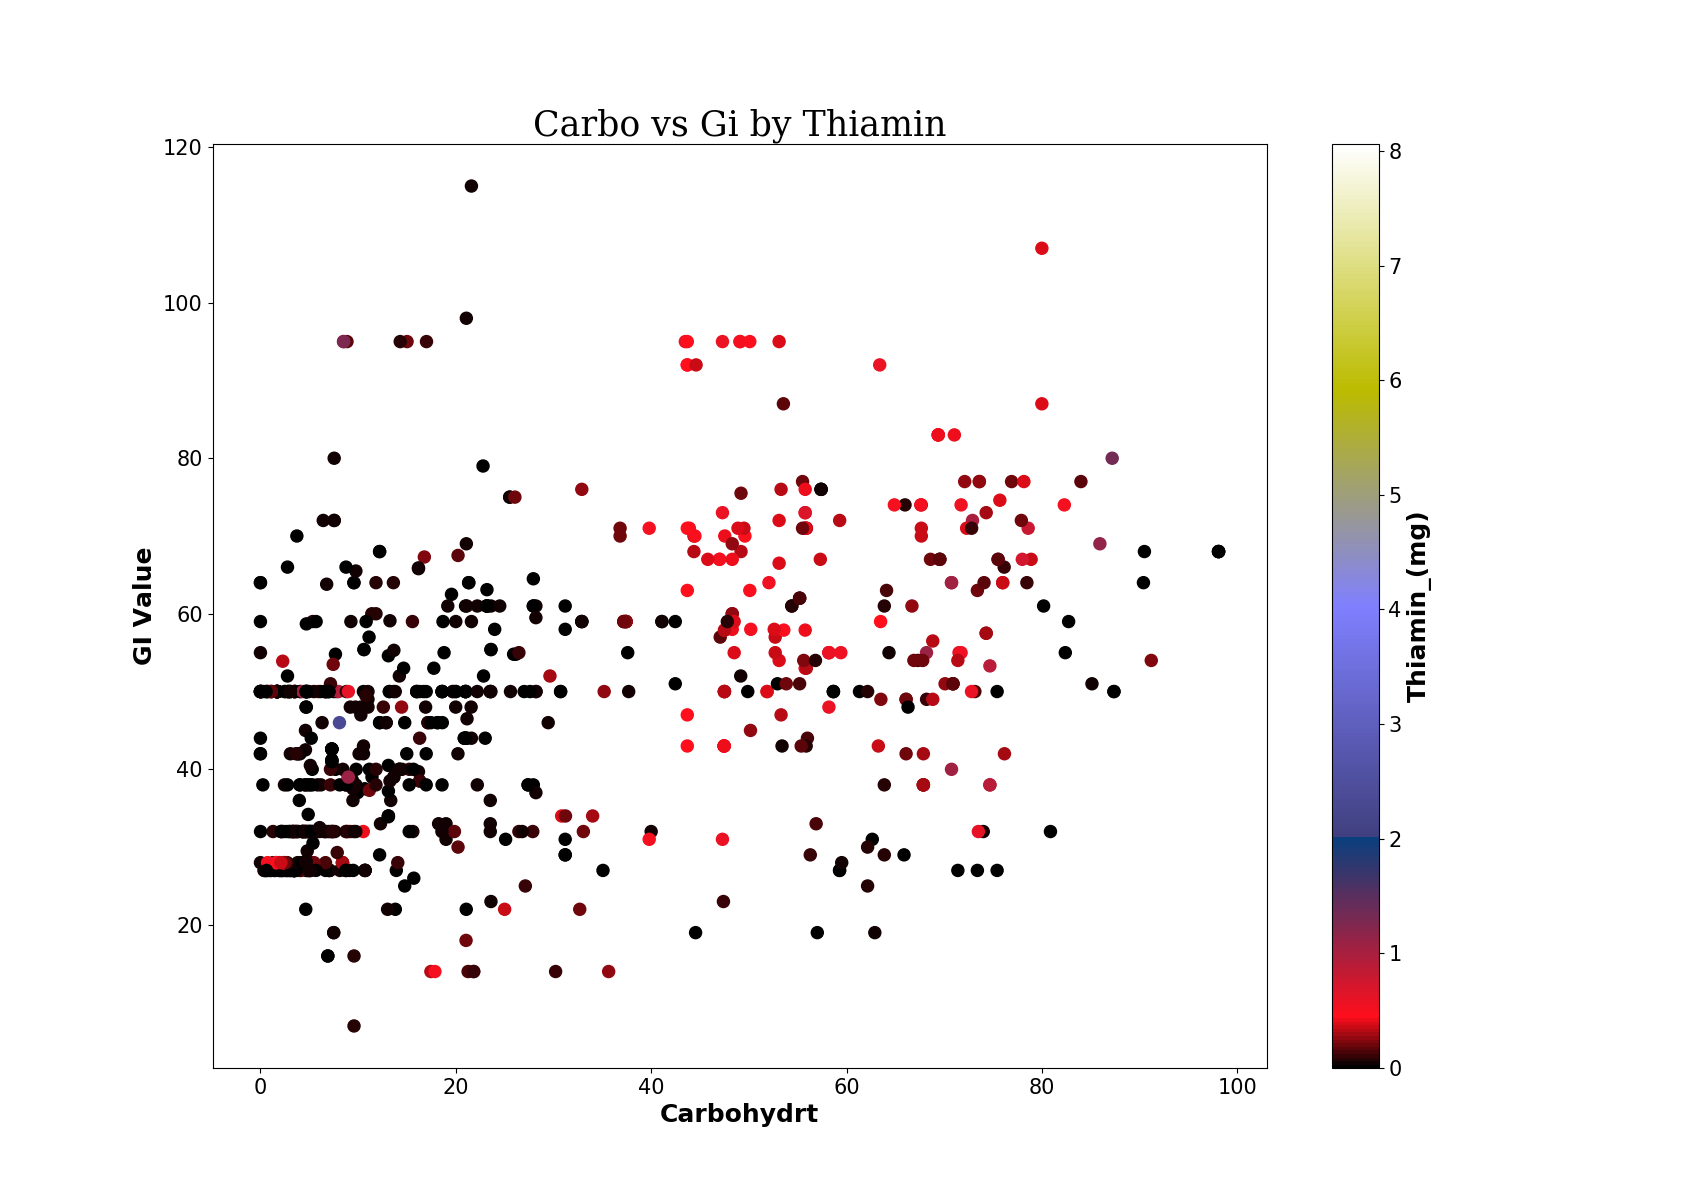
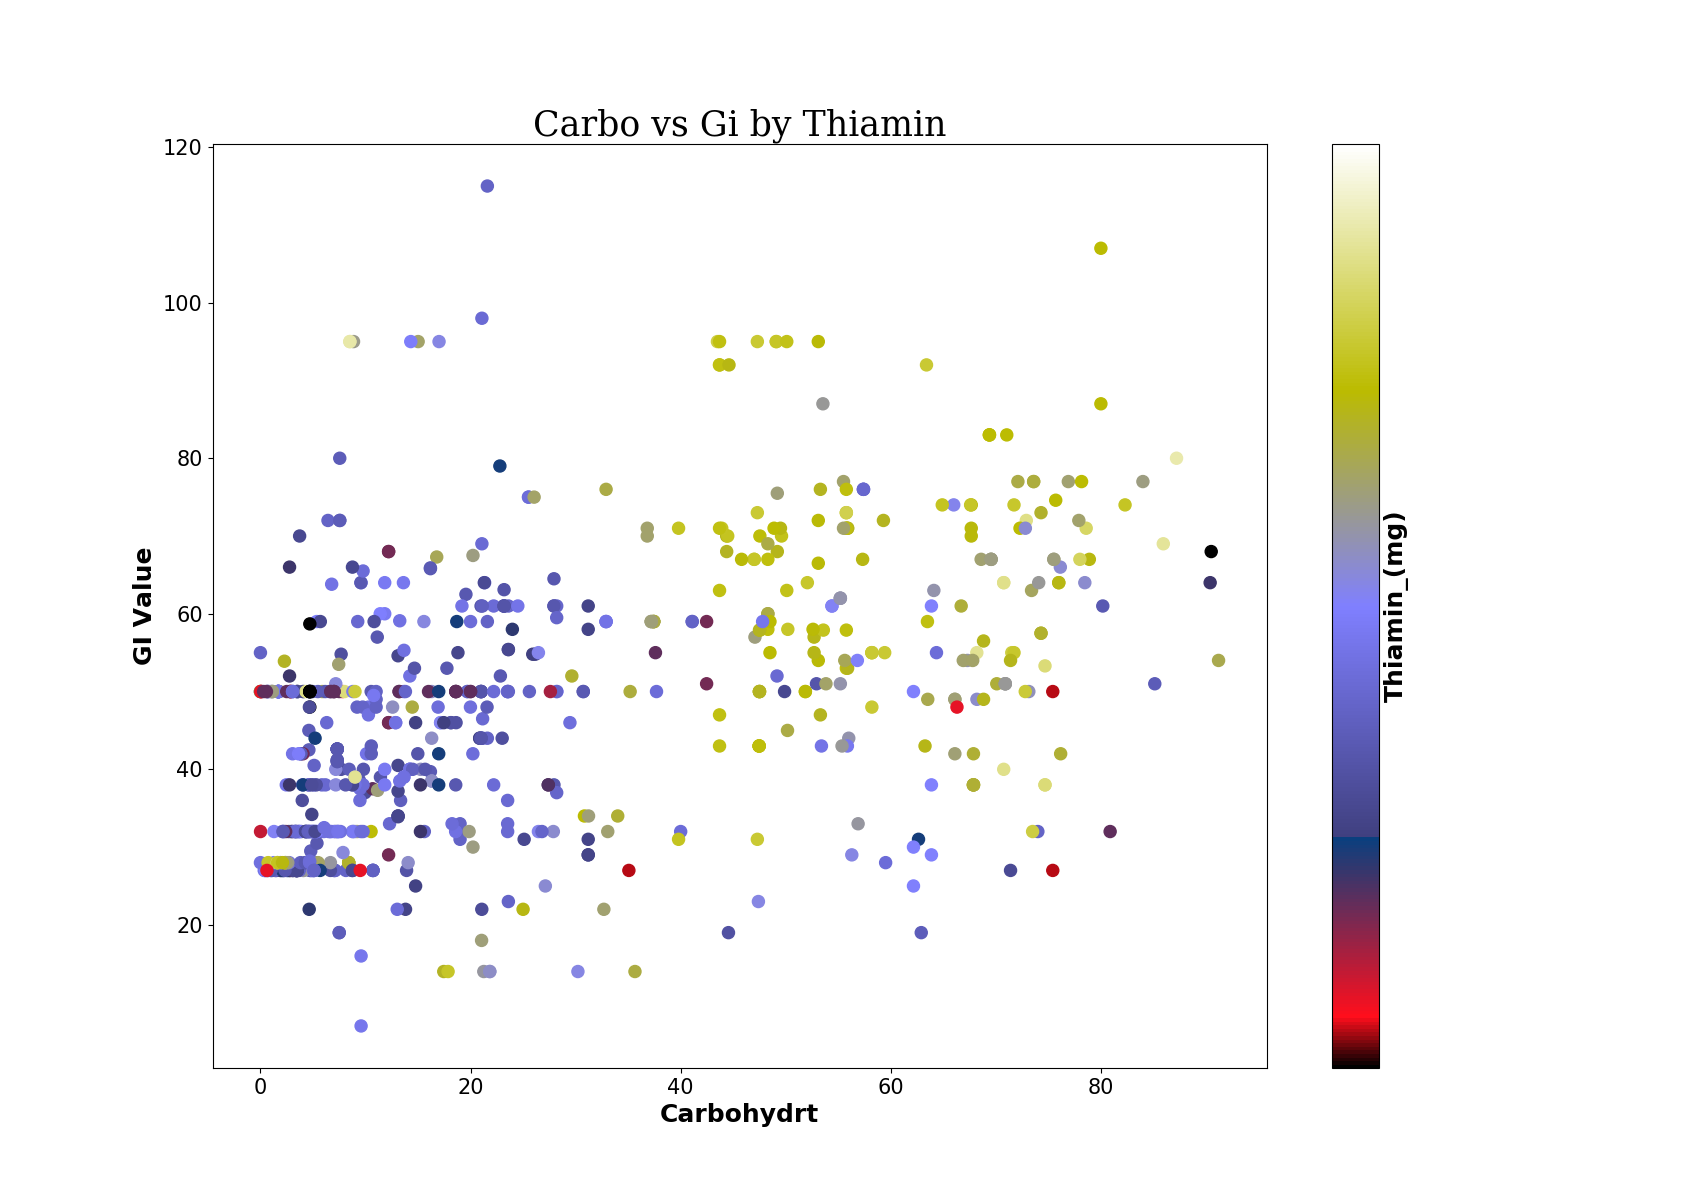
change plot output

diff --git a/Machine_Learning/ml_code.py b/Machine_Learning/ml_code.py
@@ -168,10 +168,12 @@ def learn(ml_df, X_train, X_test, y_train, y_test, RF_X_train, RF_X_test, pic_na
     ##########################################################
 
     # X_train, X_test, y_train, y_test = get_train_and_test(ml_df)
-    # X_train = X_train.drop(['Food Description in 1994-96 CSFII'], axis='columns')
-    # X_test = X_test.drop(['Food Description in 1994-96 CSFII'], axis='columns')
-    # X_train = X_train.drop(['FdGrp_desc'], axis='columns')
-    # X_test = X_test.drop(['FdGrp_desc'], axis='columns')
+    X_train = X_train.drop(['Food Description in 1994-96 CSFII'], axis='columns')
+    X_test = X_test.drop(['Food Description in 1994-96 CSFII'], axis='columns')
+    X_train = X_train.drop(['FdGrp_desc'], axis='columns')
+    X_test = X_test.drop(['FdGrp_desc'], axis='columns')
+    RF_X_train = X_train
+    RF_X_test = X_test
 
 
     features = list(ml_df.columns.values)
@@ -199,8 +201,8 @@ def learn(ml_df, X_train, X_test, y_train, y_test, RF_X_train, RF_X_test, pic_na
 
 
 
-    # print("\n\nDecision tree model:\n")
-    # decision_tree.predict(X_train, X_test, y_train, y_test, features, 'Decision_tree' + pic_name, dir)
+    print("\n\nDecision tree model:\n")
+    decision_tree.predict(X_train, X_test, y_train, y_test, features, 'Decision_tree' + pic_name, dir)
 
 
     ##########################################################
@@ -240,16 +242,19 @@ if __name__ == '__main__':
     ml_df = pd.read_excel("GI_USDA_IMPROVED.xlsx")
     os.chdir(os.getcwd()[:os.getcwd().index("Excel_files")] + "Excel_files/train&test")
 
-    X_train = pd.read_excel("X_train.xlsx")
-    X_test = pd.read_excel("X_test.xlsx")
-    y_train = pd.read_excel("y_train.xlsx").as_matrix()
-    y_train = np.ravel(y_train)
-    y_test = pd.read_excel("y_test.xlsx").as_matrix()
-    y_test = np.ravel(y_test)
-    RF_X_train = pd.read_excel("RF_X_train.xlsx")
-    RF_X_test = pd.read_excel("RF_X_test.xlsx")
+    # X_train = pd.read_excel("X_train.xlsx")
+    # X_test = pd.read_excel("X_test.xlsx")
+    # y_train = pd.read_excel("y_train.xlsx").as_matrix()
+    # y_train = np.ravel(y_train)
+    # y_test = pd.read_excel("y_test.xlsx").as_matrix()
+    # y_test = np.ravel(y_test)
+    # RF_X_train = pd.read_excel("RF_X_train.xlsx")
+    # RF_X_test = pd.read_excel("RF_X_test.xlsx")
 
-    learn(ml_df, X_train, X_test, y_train, y_test, RF_X_train, RF_X_test, pic_name='best_model', dir="best_model")
+    X_train, X_test, y_train, y_test = split_to_train_test(ml_df)
+    RF_X_train = RF_X_test = None
+    # learn(ml_df, X_train, X_test, y_train, y_test, RF_X_train, RF_X_test, pic_name='best_model', dir="best_model")
+    learn(ml_df, X_train, X_test, y_train, y_test, RF_X_train, RF_X_test, pic_name='new_test', dir='new_test')
 
 
 

diff --git a/Machine_Learning/fill_df.py b/Machine_Learning/fill_df.py
@@ -21,26 +21,43 @@ if __name__ == '__main__':
     food_groups = food_groups.unique()
 
     median_table = PrettyTable()
-    cols = list(ml_df.columns.values)
-    cols.remove("Food Description in 1994-96 CSFII")
-    cols.remove("FdGrp_desc")
-    cols.insert(0, "FdGrp_desc")
 
-    median_table.field_names = cols
+    features = list(ml_df.columns.values)
+    features.remove("Food Description in 1994-96 CSFII")
+    features.remove("FdGrp_desc")
+
+
+    median_table.add_column("feature", features)
+    # cols = list(ml_df.columns.values)
+    # cols.remove("Food Description in 1994-96 CSFII")
+    # cols.remove("FdGrp_desc")
+    # cols.insert(0, "FdGrp_desc")
+
+    # median_table.field_names = cols
+
+
+    # food_groups = ['Dairy and \nEgg Products', 'Legumes and \nLegume Products', 'Sweets', 'Beverages', 'Fats and Oils',
+    #                'Fruits and \nFruit Juices', 'Pork Products', 'Poultry Products', 'Fast Foods',
+    #                'Sausages and \nLuncheon Meats', 'Finfish and \nShellfish Products', 'Cereal Grains \nand Pasta',
+    #                'Spices and Herbs', 'Meals, Entrees,\nand Side Dishes', 'Soups, Sauces,\nand Gravies',
+    #                'Baked Products', 'Nut and Seed Products', 'Vegetables and \nVegetable Products',  'Snacks',
+    #                'Breakfast Cereals', 'Restaurant Foods',  'Baby Foods']
     for food_group in food_groups:
-        row = [food_group]
+        # row = [food_group]
+        col = []
         for column in ml_df:
             if column == "Food Description in 1994-96 CSFII" or column == "FdGrp_desc":
                 continue
             m1 = (ml_df['FdGrp_desc'] == food_group)
             median = df.loc[m1, column].median()
-            row.append(median)
+            col.append(str("%.3f" % median))
             ml_df.loc[m1, column] = df.loc[m1, column].fillna(df.loc[m1, column].median())
-        median_table.add_row(row)
+        # median_table.add_row(row)
+        median_table.add_column(food_group, col)
 
     data = median_table.get_string()
 
-    with open('median_values.txt', 'w') as f:
+    with open('median_values2.txt', 'w') as f:
         f.write(data)
 
     writer = pd.ExcelWriter('GI_USDA_full.xlsx', engine='xlsxwriter')

diff --git a/Plot_Graphs/Main_Plots.py b/Plot_Graphs/Main_Plots.py
@@ -24,28 +24,28 @@ if __name__ == '__main__':
     # carbo vs gi by thiamin
     #############################
 
-    # carbo_vs_GI.plot_corr(column_name='Thiamin_(mg)', color_col_name='Thiamin_color',
-    #           gi_usda_df=gi_usda_df, pic_name='carbo_vs_gi_by_thiamin',
-    #           title='Carbo vs Gi by Thiamin')
+    carbo_vs_GI.plot_corr(column_name='Thiamin_(mg)', color_col_name='Thiamin_color',
+              gi_usda_df=gi_usda_df, pic_name='carbo_vs_gi_by_thiamin',
+              title='Carbo vs Gi by Thiamin')
 
     #############################
     # carbo vs gi by selenium
     #############################
 
-    # carbo_vs_GI.plot_corr(column_name='Selenium_(µg)', color_col_name='Selenium_color',
-    #           gi_usda_df=gi_usda_df, pic_name='carbo_vs_gi_by_selenium',
-    #           title='Carbo vs Gi by Selenium', range=0.5)
+    carbo_vs_GI.plot_corr(column_name='Selenium_(µg)', color_col_name='Selenium_color',
+              gi_usda_df=gi_usda_df, pic_name='carbo_vs_gi_by_selenium',
+              title='Carbo vs Gi by Selenium', range=0.5)
 
 
     #############################
     # correlation food vs food
     #############################
 
-    food_vs_food.plot_corr(gi_usda_df)
+    # food_vs_food.plot_corr(gi_usda_df)
 
 
     #############################
     # correlation features vs features
     #############################
 
-    features_vs_features.plot_corr(gi_usda_df)
+    # features_vs_features.plot_corr(gi_usda_df)

diff --git a/Plot_Graphs/carbo_vs_GI.py b/Plot_Graphs/carbo_vs_GI.py
@@ -14,11 +14,14 @@ def plot_corr(column_name, color_col_name, gi_usda_df, pic_name, title, range=0.
 
     bins_values = np.arange(0, max_in_col, range)
     labels_values = np.arange(0, len(bins_values) - 1, 1)
-
+    gi_usda_df['log_values'] = ""
+    gi_usda_df['log_values'] = np.log(gi_usda_df[column_name])
+    gi_usda_df['log_values'] += 6
     gi_usda_df[color_col_name] = ""
-    gi_usda_df[color_col_name] = pd.cut(gi_usda_df[column_name], bins=bins_values, labels=labels_values)
+    gi_usda_df[color_col_name] = pd.cut(gi_usda_df['log_values'], bins=bins_values, labels=labels_values)
 
-    gi_usda_df[color_col_name] = gi_usda_df[column_name].fillna(max_in_col)
+    # gi_usda_df[color_col_name] = gi_usda_df[column_name].fillna(max_in_col)
+    gi_usda_df = gi_usda_df[pd.notnull(gi_usda_df[color_col_name])]
 
     color_arr = gi_usda_df[color_col_name]
 
@@ -42,7 +45,9 @@ def plot_corr(column_name, color_col_name, gi_usda_df, pic_name, title, range=0.
     plt.xticks(fontsize=15)
     plt.yticks(fontsize=15)
     cbar = plt.colorbar()
-    cbar.ax.tick_params(labelsize=15)
+
+    # cbar.ax.tick_params(labelsize=15)
+    cbar.set_ticks([])
     cbar.set_label(column_name, weight='bold', size=18)
 
     if not os.getcwd().__contains__("Graphs & Photos"):

diff --git a/Machine_Learning/Plot_output.py b/Machine_Learning/Plot_output.py
@@ -166,6 +166,8 @@ def plot_variable_importance(best_random, lables, pic_name1, dir):
     features_dict = dict(zip(lables, feature_imp))
     print(features_dict)
 
+    new_features_dict = {key: val for key, val in features_dict.items() if val >= features_dict['Vit_K_(µg)']}
+
     indices = np.argsort(feature_imp)
 
     plt.title('Random Forest - Feature Importance')
@@ -177,12 +179,20 @@ def plot_variable_importance(best_random, lables, pic_name1, dir):
 
     sns.set(font_scale=0.2)
 
-    sns.set_context("paper", rc={"font.size": 8, "axes.titlesize": 8, "axes.labelsize": 5})
+    sns.set_context("paper", rc={"font.size": 2, "axes.titlesize": 2, "axes.labelsize": 2})
     labels_list = []
-    for item in features_dict.keys():
+    for item in new_features_dict.keys():
         labels_list.append(str(item))
 
-    sns.barplot(x=feature_imp, y=labels_list)
+    importance_list = []
+    for imp in new_features_dict.values():
+        importance_list.append(imp)
+
+    # labels_list.remove('iron')
+    # sns.barplot(x=feature_imp, y=labels_list)
+    sns.barplot(x=importance_list, y=labels_list)
+
+    # sns.barplot(x=feature_imp, y=labels_list)
     # Add labels to your graph
     plt.xlabel('Feature Importance Score')
     plt.ylabel('Features')
